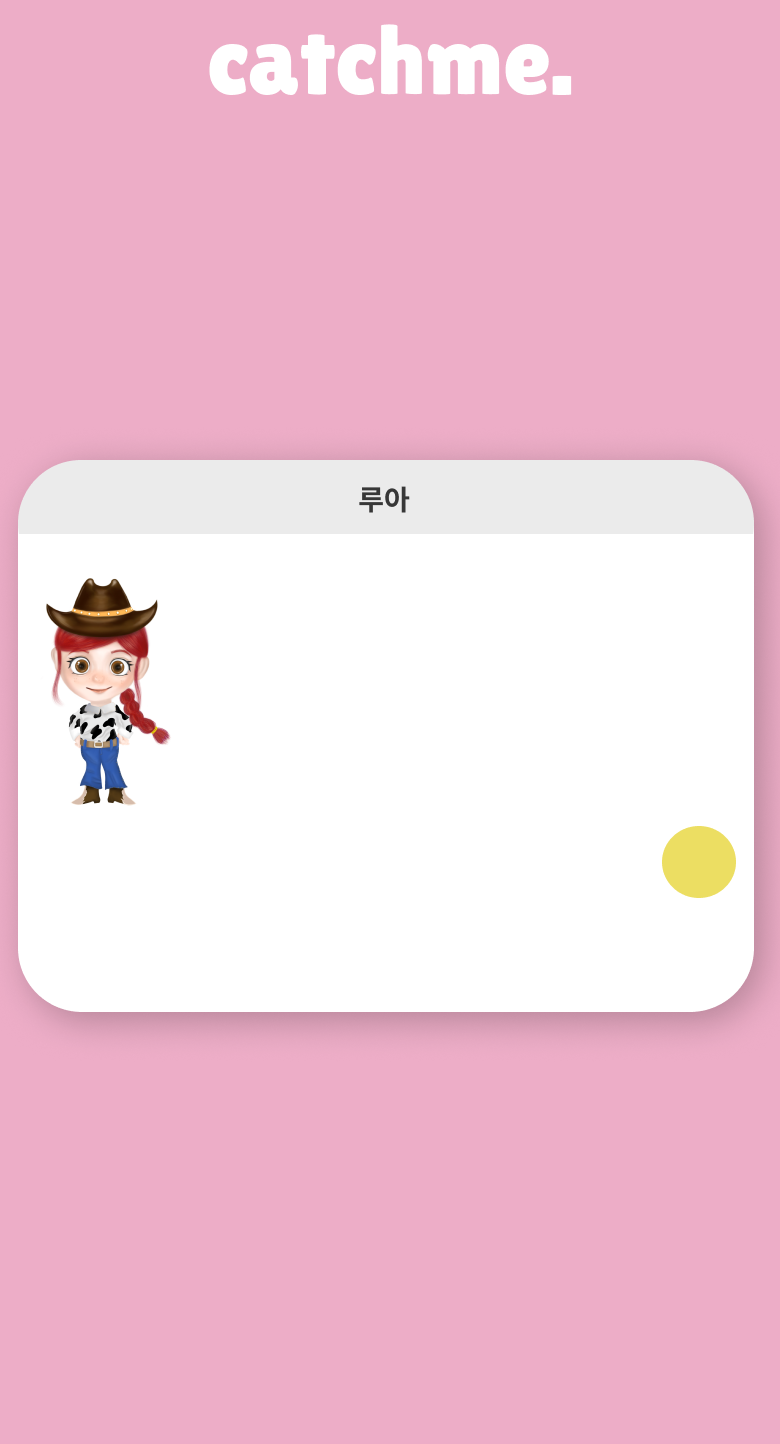
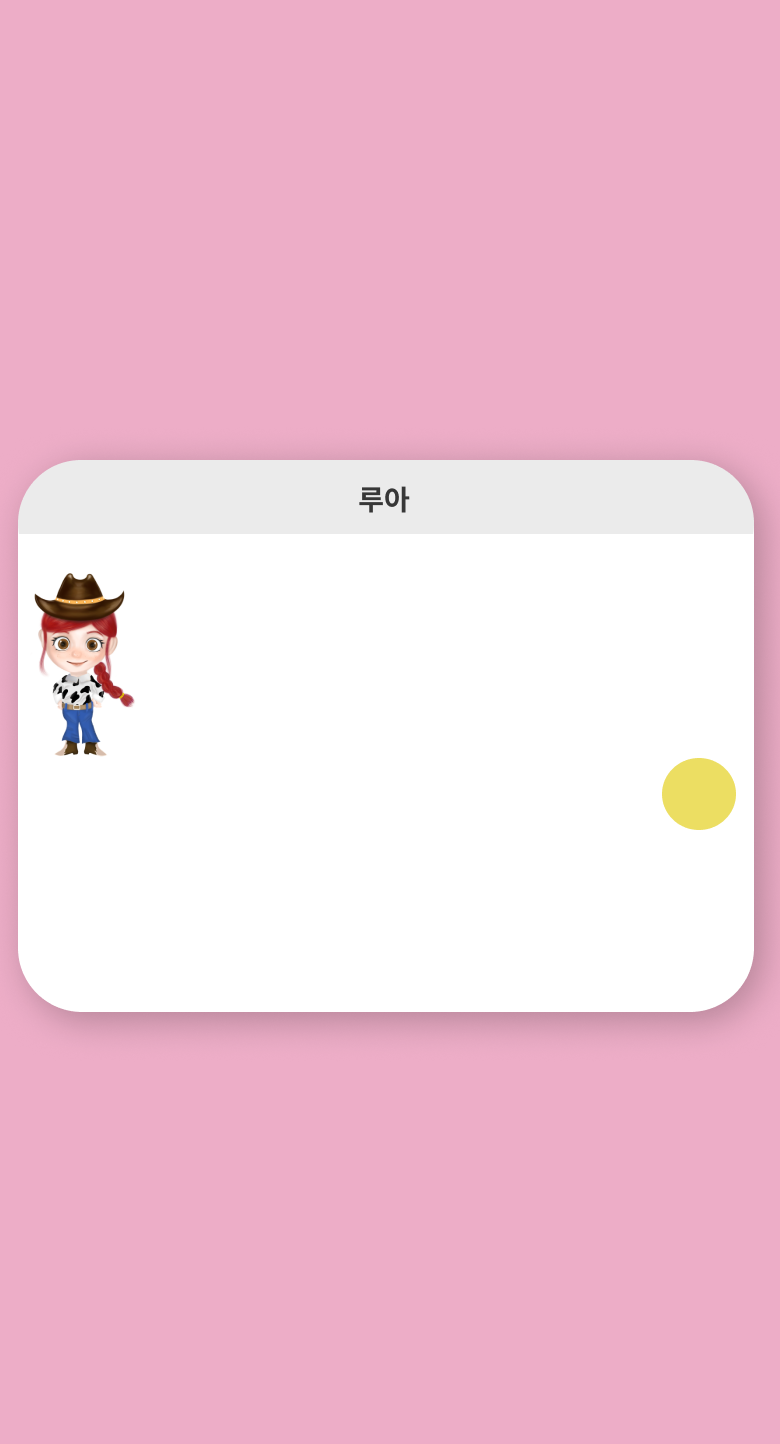
Dannyfoldering

Changed region(s): [[0.0308, 0.374, 0.2154, 0.5609], [0.2462, 0.0, 0.7385, 0.0623], [0.8308, 0.4986, 0.9538, 0.6233]]

diff --git a/src/App.js b/src/App.js
@@ -12,23 +12,23 @@ import Help from "./page/HelpPage";
 import WithFriends from "./page/WithFriendsPage";
 import Alarm from "./page/AlarmPage";
 import MatchHistory from "./page/MatchHistoryPage";
-import Information from './page/InformationPage';
-import Welcome02 from './page/Welcome02';
-import Welcome03 from './page/Welcome03';
-import {GenderProvider} from './page/GenderContext';
-import Welcome04 from './page/Welcome04';
-import Welcome05 from './page/Welcome05';
-import Welcome06 from './page/Welcome06';
-import Welcome07 from './page/Welcome07';
-import Welcome08 from './page/Welcome08';
-import Welcome09 from './page/Welcome09';
-import Welcome10 from './page/Welcome10';
-import Welcome11 from './page/Welcome11';
-import Welcome12 from './page/Welcome12';
-import Welcome13M from './page/Welcome13M';
-import Welcome13W from './page/Welcome13W';
-import Welcome14 from './page/Welcome14';
-import Welcome15 from './page/Welcome15';
+import Information from './page/WelcomePage/InformationPage';
+import Welcome02 from './page/WelcomePage/Welcome02';
+import Welcome03 from './page/WelcomePage/Welcome03';
+import {GenderProvider} from './page/WelcomePage/GenderContext';
+import Welcome04 from './page/WelcomePage/Welcome04';
+import Welcome05 from './page/WelcomePage/Welcome05';
+import Welcome06 from './page/WelcomePage/Welcome06';
+import Welcome07 from './page/WelcomePage/Welcome07';
+import Welcome08 from './page/WelcomePage/Welcome08';
+import Welcome09 from './page/WelcomePage/Welcome09';
+import Welcome10 from './page/WelcomePage/Welcome10';
+import Welcome11 from './page/WelcomePage/Welcome11';
+import Welcome12 from './page/WelcomePage/Welcome12';
+import Welcome13M from './page/WelcomePage/Welcome13M';
+import Welcome13W from './page/WelcomePage/Welcome13W';
+import Welcome14 from './page/WelcomePage/Welcome14';
+import Welcome15 from './page/WelcomePage/Welcome15';
 
 function App() {
   return (

diff --git a/src/page/WelcomePage/Welcome12.css b/src/page/WelcomePage/Welcome12.css
@@ -1,9 +1,8 @@
 .home2 {
     display: grid;
     grid-template-columns: 1fr 1fr; /* 2개의 열 */
-    grid-template-rows: 0.5fr 1fr repeat(7, 0.5fr) 0.75fr; /* 7개의 행 추가 */
+    grid-template-rows: 0.5fr repeat(7, 0.5fr) 0.5fr 0.5fr ; /* 7개의 행 추가 */
     grid-template-areas: 
-      "head head"
       "headtext headtext"
       "content-1 content-2"
       "content-3 content-4"
@@ -12,7 +11,8 @@
       "content-9 content-10"
       "content-11 content-12"
       "content-13 content-14"
-      "previousnext previousnext";
+      "previousnext previousnext"
+      "bottom bottom";
     height: 100vh;
   }
   

diff --git a/src/page/WelcomePage/Welcome12.js b/src/page/WelcomePage/Welcome12.js
@@ -79,7 +79,6 @@ const Welcome12 = () => {
   return (
     <div className="home2">
         <BackgroundImage />
-        <div className="head"></div>
       <div className="headtext">
         <p>10. 관심사를 선택해주세요!</p>
       </div>
@@ -96,6 +95,7 @@ const Welcome12 = () => {
         <button onClick={handlePreviousClick} className="previous-button">이전</button>
         <button onClick={handleNextClick} className="next-button">다음</button>
       </div>
+      <div className="bottom"></div>
 
     </div>
     

diff --git a/src/page/WelcomePage/Information.css b/src/page/WelcomePage/Information.css
@@ -1,7 +1,7 @@
 .app-background {
   display: flex;
   flex-direction: column; /* 자식 요소를 가로로 배열 */
-  background-image: url(../../public/image/Welcome.png);
+  background-image: url(../../../public/image/Welcome.png);
   background-size: cover;
   background-position: center center;
   background-repeat: no-repeat;

diff --git a/src/page/WelcomePage/Welcome.css b/src/page/WelcomePage/Welcome.css
@@ -1,7 +1,7 @@
   
 .home {
   display: grid; 
-  grid-template-rows: 0.5fr 1fr 1.25fr 1fr 1.25fr 0.75fr;
+  grid-template-rows: 0.5fr 1fr 1.25fr 1fr 0.5fr 1.5fr;
   
   height: 100vh; /* 전체 뷰포트 높이 */
 }

diff --git a/src/page/WelcomePage/InformationPage.js b/src/page/WelcomePage/InformationPage.js
@@ -1,6 +1,6 @@
 import React from 'react';
 import { useNavigate } from 'react-router-dom';
-import Welcome02 from './Welcome02';
+
 import { GenderProvider } from './GenderContext';
 
 import './Information.css';
